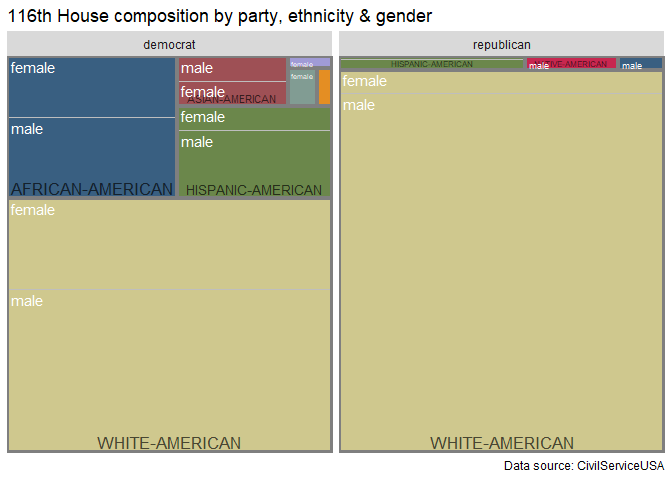
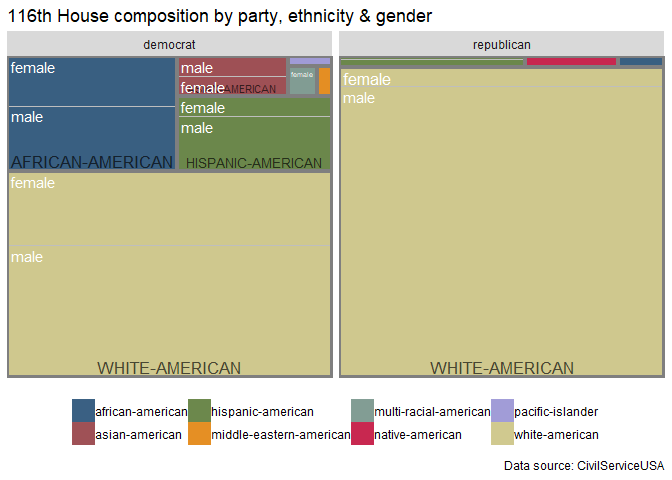
re

diff --git a/README.md b/README.md
@@ -13,7 +13,7 @@ Data presented here have been collated from [The Daily Kos](https://www.dailykos
 -   [6 Equal-area political geometries](#6-Equal-area-political-geometries)
 -   [7 Summary](#7-Summary)
 
-Hopefully a useful open source & transparent framework for investigating past & future election results and congresses using R. All work presented here can be reproduced in its entirety. A developing resource.
+Hopefully a useful **open source & transparent framework** for investigating past & future election results and congresses using R. All work presented here can be reproduced in its entirety. A developing resource.
 
 ``` r
 library(tidyverse)
@@ -129,7 +129,7 @@ csusa_house_dets %>%
                         size = 11)+
       ggthemes::scale_fill_stata()+
       facet_wrap(~party)+
-      theme(legend.position = "none",
+      theme(legend.position = "bottom",
             legend.title=element_blank()) +
       labs(title = '116th House composition by party, ethnicity & gender',
            caption = 'Data source: CivilServiceUSA')
@@ -292,7 +292,7 @@ url <- 'https://docs.google.com/spreadsheets/d/1oRl7vxEJUUDWJCyrjo62cELJD2ONIVl-
 house <- gsheet::gsheet2tbl(url) 
 ```
 
-> A simple cleaning procedure that should (more or less) scale to other data sources at the Daily Kos.
+> **A simple cleaning procedure** that should (more or less) scale to other data sources at the Daily Kos.
 
 ``` r
 fix <- as.data.frame(cbind(colnames(house), as.character(house[1,])), 
@@ -816,4 +816,4 @@ plot_ly(
 
 ### 7 Summary
 
-Hopefully a nice round-up of useful open source resources for investigating & visualizing federal election results. I will update & develop as things get updated & develop.
+**Hopefully a nice round-up** of useful open source resources for investigating & visualizing federal election results. I will update & develop as things get updated & develop.
